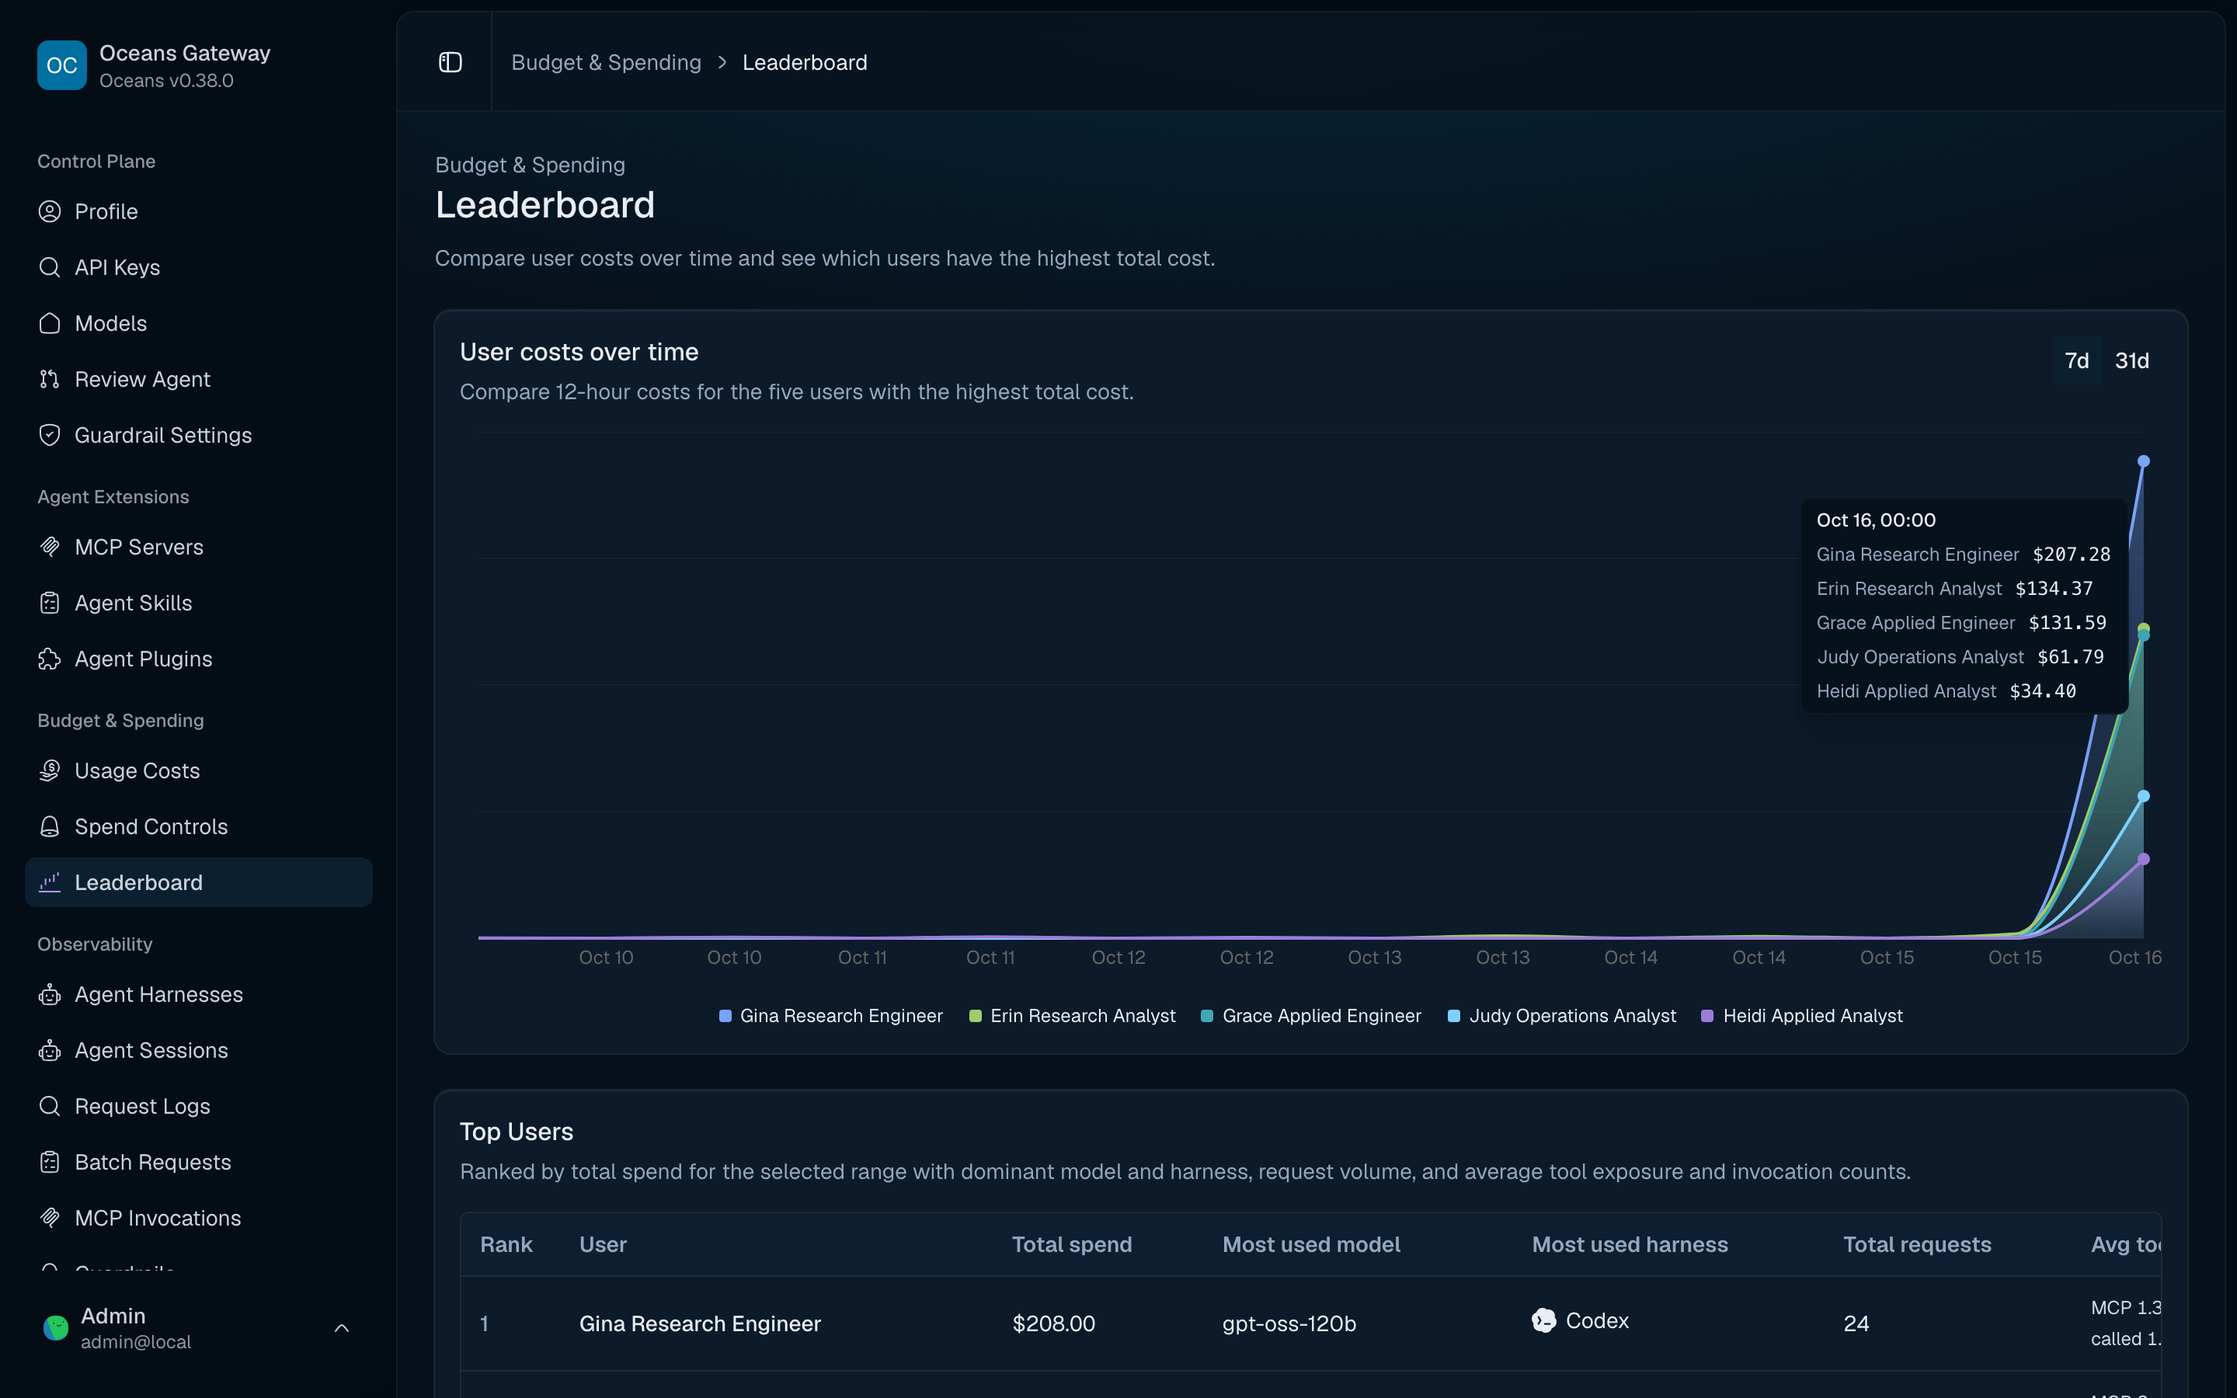
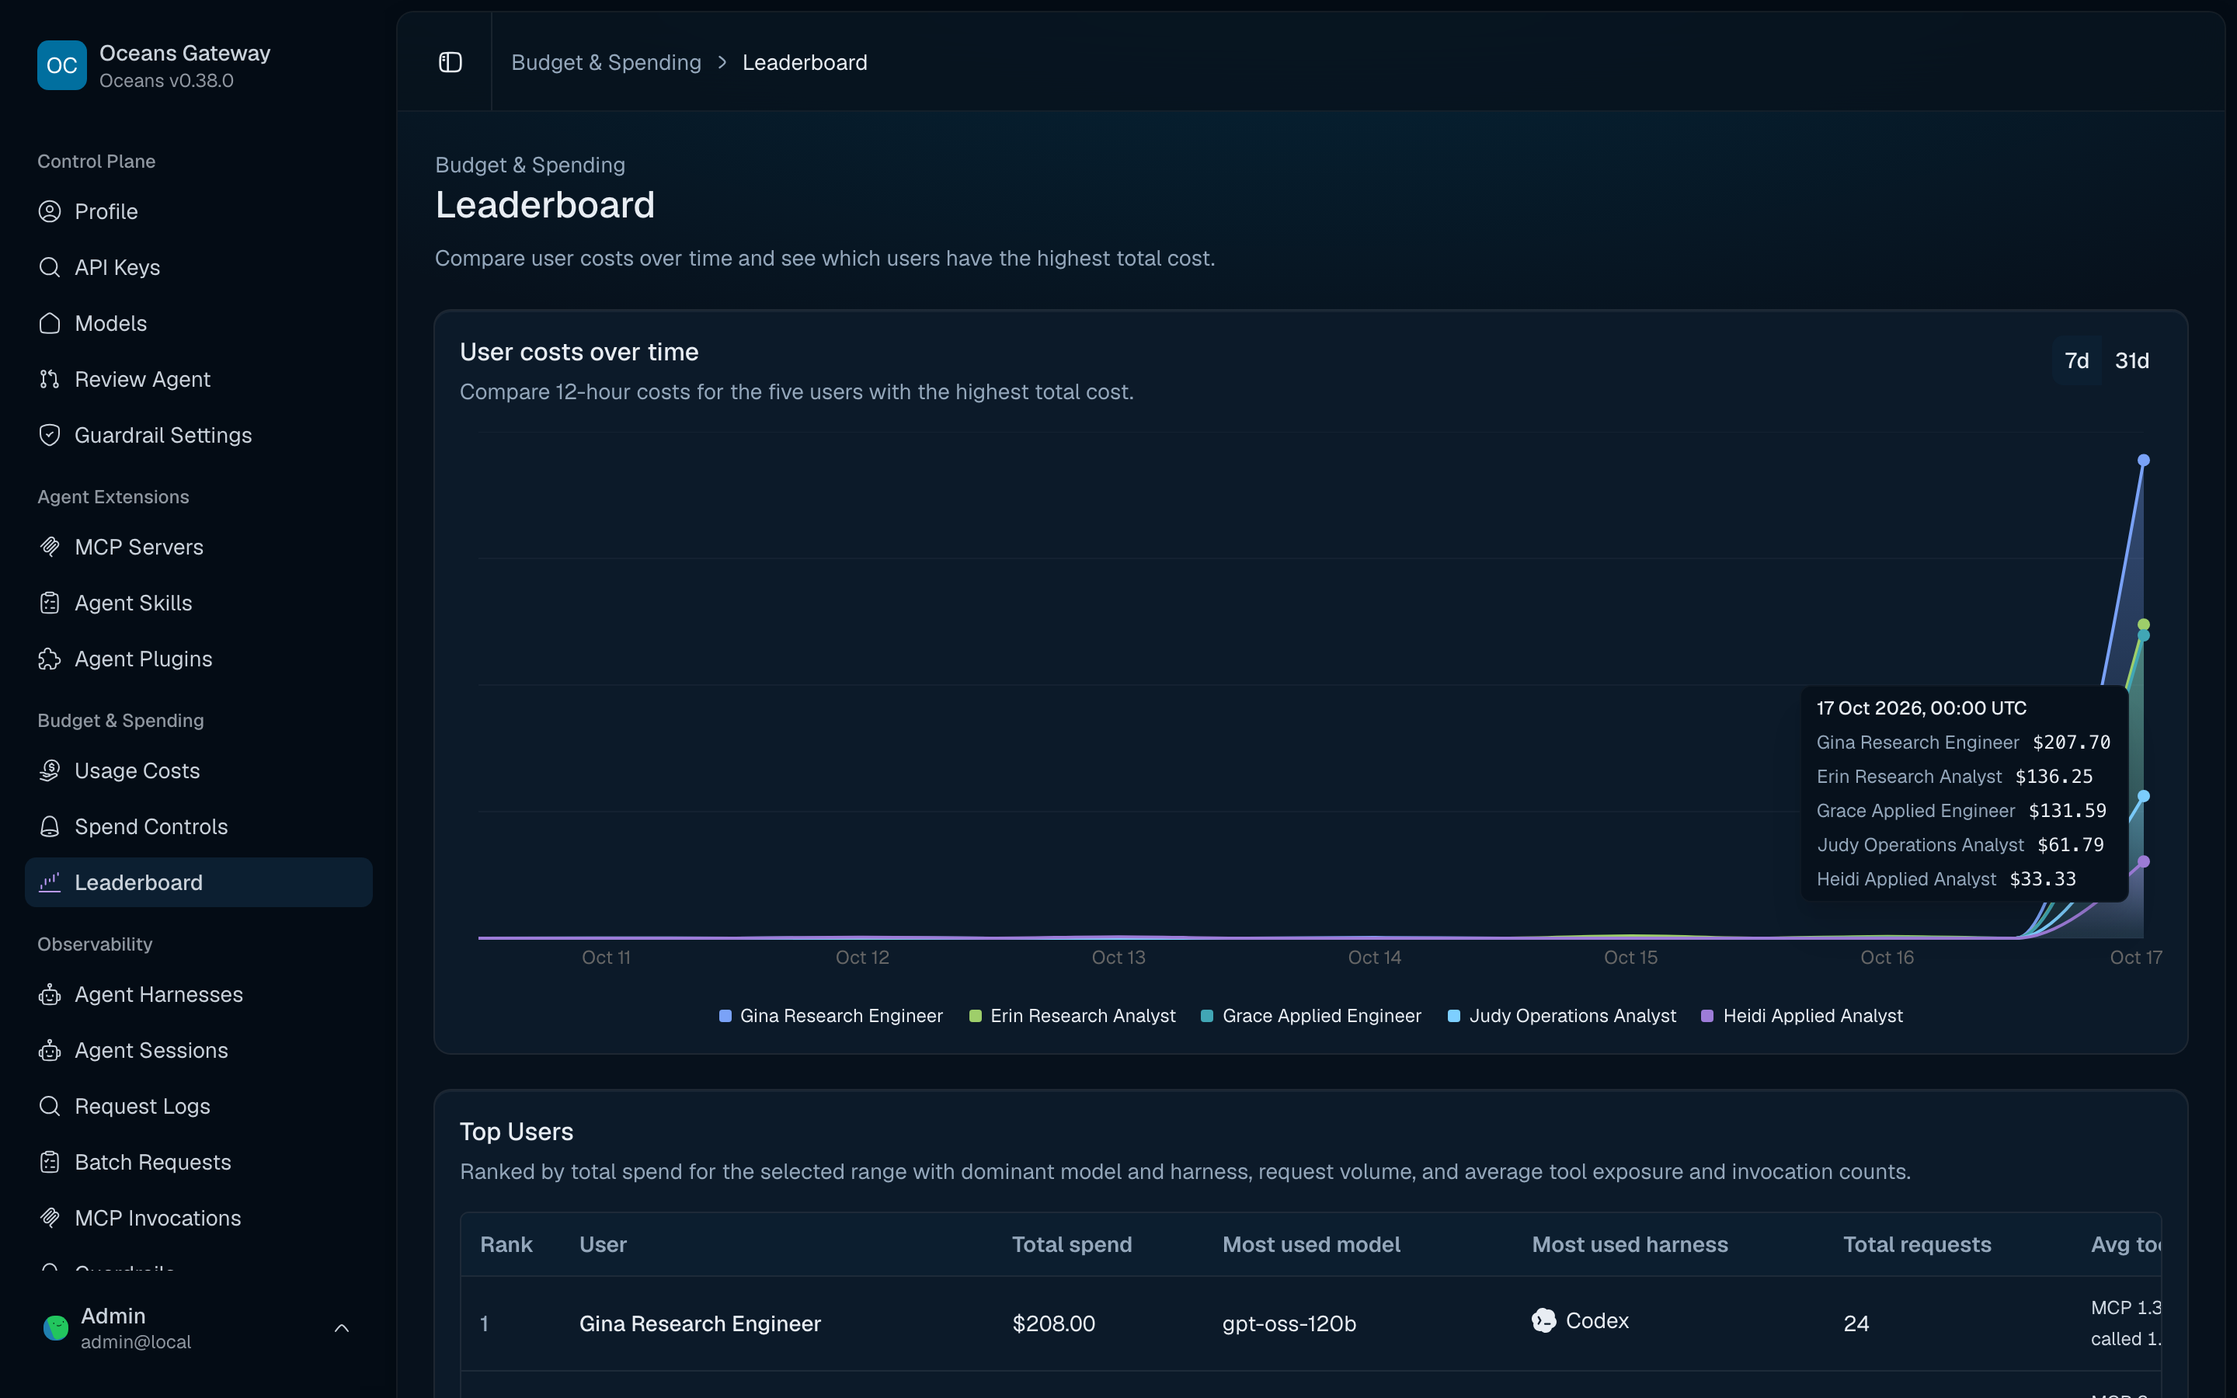
fix(admin-ui): tick chart axes once per UTC day and label tooltips in UTC
The leaderboard and agent harness charts plot 12-hour buckets, so the
day-only axis labels repeated (Oct 10, Oct 10, Oct 11...). Tick only the
midnight bucket of each UTC day instead.

Their tooltips read "Oct 16, 00:00" (or "Oct 16, 12 AM") with no zone.
Format them as `16 Oct 2026, 00:00 UTC` per DESIGN.md's numbers-and-time
rule, through a new shared formatUtcTimestamp built from fixed UTC parts
so server and browser output match during hydration.

Refresh the leaderboard screenshot and map the shared axis helper to the
leaderboard and agent-harnesses proofs.

Changed region(s): [[0.8125, 0.3733, 0.9688, 0.6844]]

diff --git a/crates/admin-ui/web/src/routes/observability/agent-harnesses.tsx b/crates/admin-ui/web/src/routes/observability/agent-harnesses.tsx
@@ -26,11 +26,14 @@ import {
 } from '@/components/ui/table'
 import { ToggleGroup, ToggleGroupItem } from '@/components/ui/toggle-group'
 import { chartAnimation } from '@/lib/chart-motion'
+import { formatUtcTimestamp } from '@/lib/format'
 import {
   getObservabilityHarnessUsage,
   refreshObservabilityHarnessUsage,
 } from '@/server/admin-data.functions'
 import type { HarnessUsageLeaderView, HarnessUsageRange, HarnessUsageView } from '@/types/api'
+
+import { formatBucketDay, utcDayTicks } from './-bucket-axis'
 
 export const Route = createFileRoute('/observability/agent-harnesses')({
   loader: () => getObservabilityHarnessUsage({ data: { range: '7d' } }),
@@ -89,6 +92,7 @@ export function AgentHarnessesPage() {
 
     return row
   })
+  const dayTicks = utcDayTicks(chartData.map((row) => String(row.bucket_start)))
 
   function refreshRange(nextRange: HarnessUsageRange) {
     setIsRefreshing(true)
@@ -171,17 +175,18 @@ export function AgentHarnessesPage() {
                 <CartesianGrid vertical={false} />
                 <XAxis
                   dataKey="bucket_start"
+                  ticks={dayTicks}
                   tickLine={false}
                   axisLine={false}
                   minTickGap={24}
-                  tickFormatter={(value) => formatAxisTick(value)}
+                  tickFormatter={formatBucketDay}
                 />
                 <ChartTooltip
                   cursor={false}
                   content={
                     <ChartTooltipContent
                       labelFormatter={(_, payload) =>
-                        formatTooltipLabel(String(payload?.[0]?.payload?.bucket_start ?? ''))
+                        formatUtcTimestamp(String(payload?.[0]?.payload?.bucket_start ?? ''))
                       }
                       formatter={(value, name) => (
                         <>
@@ -377,31 +382,6 @@ function HarnessChartSkeleton() {
 
 function HarnessTableSkeleton() {
   return <Skeleton data-testid="harness-table-skeleton" className="h-48 w-full" />
-}
-
-function formatAxisTick(value: string) {
-  const date = new Date(value)
-  if (Number.isNaN(date.getTime())) {
-    return value
-  }
-  return new Intl.DateTimeFormat('en-US', {
-    month: 'short',
-    day: 'numeric',
-    timeZone: 'UTC',
-  }).format(date)
-}
-
-function formatTooltipLabel(value: string) {
-  const date = new Date(value)
-  if (Number.isNaN(date.getTime())) {
-    return value
-  }
-  return new Intl.DateTimeFormat('en-US', {
-    month: 'short',
-    day: 'numeric',
-    hour: 'numeric',
-    timeZone: 'UTC',
-  }).format(date)
 }
 
 function getErrorMessage(error: unknown) {

diff --git a/crates/admin-ui/web/src/test/routes/leaderboard-route.test.tsx b/crates/admin-ui/web/src/test/routes/leaderboard-route.test.tsx
@@ -1,5 +1,5 @@
 import { cleanup, fireEvent, render, waitFor, within } from '@testing-library/react'
-import type { ReactNode } from 'react'
+import { cloneElement, type ReactElement, type ReactNode } from 'react'
 import { afterEach, beforeEach, describe, expect, it, vi } from 'vitest'
 
 const refreshObservabilityLeaderboardMock = vi.fn()
@@ -17,8 +17,32 @@ vi.mock('recharts', () => ({
   AreaChart: ({ children }: { children: ReactNode }) => <svg>{children}</svg>,
   Area: () => <path />,
   CartesianGrid: () => <g />,
-  XAxis: () => <g />,
-  Tooltip: () => null,
+  XAxis: ({
+    ticks,
+    tickFormatter,
+  }: {
+    ticks?: string[]
+    tickFormatter: (value: string) => string
+  }) => (
+    <g data-testid="x-axis">
+      {ticks?.map((tick) => (
+        <text key={tick}>{tickFormatter(tick)}</text>
+      ))}
+    </g>
+  ),
+  // Render the tooltip as if the noon bucket on 1 Mar were hovered.
+  Tooltip: ({ content }: { content: ReactElement }) =>
+    cloneElement(content as ReactElement<Record<string, unknown>>, {
+      active: true,
+      payload: [
+        {
+          dataKey: 'user_1',
+          name: 'user_1',
+          value: 3.5,
+          payload: { bucket_start: '2026-03-01T12:00:00Z' },
+        },
+      ],
+    }),
   Legend: () => null,
 }))
 
@@ -193,5 +217,36 @@ describe('ObservabilityLeaderboardPage', () => {
       expect(scope.getByTestId('leaderboard-chart-skeleton')).toBeInTheDocument()
       expect(scope.getByTestId('leaderboard-table-skeleton')).toBeInTheDocument()
     })
+  })
+
+  it('labels each UTC day once on the axis and names the zone in the tooltip', async () => {
+    routeMock.useLoaderData.mockReturnValue({
+      data: {
+        ...leaderboardData,
+        series: [
+          '2026-03-01T12:00:00Z',
+          '2026-03-02T00:00:00Z',
+          '2026-03-02T12:00:00Z',
+          '2026-03-03T00:00:00Z',
+        ].map((bucket_start) => ({
+          bucket_start,
+          values: [{ user_id: 'user_1', spend_usd_10000: 35000 }],
+        })),
+      },
+    })
+
+    const { ObservabilityLeaderboardPage } = await import('@/routes/observability/leaderboard')
+
+    const view = render(<ObservabilityLeaderboardPage />)
+    const scope = within(view.container)
+
+    // 12-hour buckets: only the midnight buckets get a tick, so no day repeats.
+    expect(
+      within(scope.getByTestId('x-axis'))
+        .getAllByText(/./)
+        .map((tick) => tick.textContent),
+    ).toEqual(['Mar 2', 'Mar 3'])
+    expect(scope.getByText('1 Mar 2026, 12:00 UTC')).toBeInTheDocument()
+    expect(scope.getByText('$3.50')).toBeInTheDocument()
   })
 })

diff --git a/crates/admin-ui/web/src/test/routes/agent-harnesses-route.test.tsx b/crates/admin-ui/web/src/test/routes/agent-harnesses-route.test.tsx
@@ -1,5 +1,5 @@
 import { cleanup, fireEvent, render, waitFor, within } from '@testing-library/react'
-import type { ReactNode } from 'react'
+import { cloneElement, type ReactElement, type ReactNode } from 'react'
 import { afterEach, beforeEach, describe, expect, it, vi } from 'vitest'
 
 const refreshObservabilityHarnessUsageMock = vi.fn()
@@ -17,8 +17,32 @@ vi.mock('recharts', () => ({
   AreaChart: ({ children }: { children: ReactNode }) => <svg>{children}</svg>,
   Area: () => <path />,
   CartesianGrid: () => <g />,
-  XAxis: () => <g />,
-  Tooltip: () => null,
+  XAxis: ({
+    ticks,
+    tickFormatter,
+  }: {
+    ticks?: string[]
+    tickFormatter: (value: string) => string
+  }) => (
+    <g data-testid="x-axis">
+      {ticks?.map((tick) => (
+        <text key={tick}>{tickFormatter(tick)}</text>
+      ))}
+    </g>
+  ),
+  // Render the tooltip as if the noon bucket on 1 Mar were hovered.
+  Tooltip: ({ content }: { content: ReactElement }) =>
+    cloneElement(content as ReactElement<Record<string, unknown>>, {
+      active: true,
+      payload: [
+        {
+          dataKey: 'harness_1',
+          name: 'harness_1',
+          value: 4,
+          payload: { bucket_start: '2026-03-01T12:00:00Z' },
+        },
+      ],
+    }),
   Legend: () => null,
 }))
 
@@ -200,5 +224,36 @@ describe('AgentHarnessesPage', () => {
       expect(scope.getByTestId('harness-chart-skeleton')).toBeInTheDocument()
       expect(scope.getByTestId('harness-table-skeleton')).toBeInTheDocument()
     })
+  })
+
+  it('labels each UTC day once on the axis and names the zone in the tooltip', async () => {
+    routeMock.useLoaderData.mockReturnValue({
+      data: {
+        ...harnessUsageData,
+        series: [
+          '2026-03-01T12:00:00Z',
+          '2026-03-02T00:00:00Z',
+          '2026-03-02T12:00:00Z',
+          '2026-03-03T00:00:00Z',
+        ].map((bucket_start) => ({
+          bucket_start,
+          values: [{ agent_harness_key: 'mastra', request_count: 4 }],
+        })),
+      },
+    })
+
+    const { AgentHarnessesPage } = await import('@/routes/observability/agent-harnesses')
+
+    const view = render(<AgentHarnessesPage />)
+    const scope = within(view.container)
+
+    // 12-hour buckets: only the midnight buckets get a tick, so no day repeats.
+    expect(
+      within(scope.getByTestId('x-axis'))
+        .getAllByText(/./)
+        .map((tick) => tick.textContent),
+    ).toEqual(['Mar 2', 'Mar 3'])
+    expect(scope.getByText('1 Mar 2026, 12:00 UTC')).toBeInTheDocument()
+    expect(scope.getByText('4 requests')).toBeInTheDocument()
   })
 })

diff --git a/crates/admin-ui/web/src/routes/observability/leaderboard.tsx b/crates/admin-ui/web/src/routes/observability/leaderboard.tsx
@@ -26,11 +26,14 @@ import {
 } from '@/components/ui/table'
 import { ToggleGroup, ToggleGroupItem } from '@/components/ui/toggle-group'
 import { chartAnimation } from '@/lib/chart-motion'
+import { formatUtcTimestamp } from '@/lib/format'
 import {
   getObservabilityLeaderboard,
   refreshObservabilityLeaderboard,
 } from '@/server/admin-data.functions'
 import type { LeaderboardRange, LeaderboardLeaderView, LeaderboardView } from '@/types/api'
+
+import { formatBucketDay, utcDayTicks } from './-bucket-axis'
 
 export const Route = createFileRoute('/observability/leaderboard')({
   loader: () => getObservabilityLeaderboard({ data: { range: '7d' } }),
@@ -91,6 +94,7 @@ export function ObservabilityLeaderboardPage() {
 
     return row
   })
+  const dayTicks = utcDayTicks(chartData.map((row) => String(row.bucket_start)))
 
   function refreshRange(nextRange: LeaderboardRange) {
     setIsRefreshing(true)
@@ -173,17 +177,18 @@ export function ObservabilityLeaderboardPage() {
                 <CartesianGrid vertical={false} />
                 <XAxis
                   dataKey="bucket_start"
+                  ticks={dayTicks}
                   tickLine={false}
                   axisLine={false}
                   minTickGap={24}
-                  tickFormatter={(value) => formatAxisTick(value)}
+                  tickFormatter={formatBucketDay}
                 />
                 <ChartTooltip
                   cursor={false}
                   content={
                     <ChartTooltipContent
                       labelFormatter={(_, payload) =>
-                        formatTooltipLabel(String(payload?.[0]?.payload?.bucket_start ?? ''))
+                        formatUtcTimestamp(String(payload?.[0]?.payload?.bucket_start ?? ''))
                       }
                       formatter={(value, name) => (
                         <>
@@ -426,33 +431,6 @@ function formatAverageCount(value: number | null | undefined) {
   }
 
   return Number.isInteger(value) ? String(value) : value.toFixed(1)
-}
-
-function formatAxisTick(value: string) {
-  if (!value) {
-    return ''
-  }
-
-  return new Date(value).toLocaleDateString('en-US', {
-    month: 'short',
-    day: 'numeric',
-    timeZone: 'UTC',
-  })
-}
-
-function formatTooltipLabel(value: string) {
-  if (!value) {
-    return 'UTC'
-  }
-
-  return new Date(value).toLocaleString('en-US', {
-    month: 'short',
-    day: 'numeric',
-    hour: 'numeric',
-    minute: '2-digit',
-    hour12: false,
-    timeZone: 'UTC',
-  })
 }
 
 function toLeaderboardRange(value: string): LeaderboardRange {

diff --git a/crates/admin-ui/web/src/lib/format.ts b/crates/admin-ui/web/src/lib/format.ts
@@ -32,3 +32,19 @@ const EXPIRY_FORMATTER = new Intl.DateTimeFormat('en-US', {
 export function formatIncreaseLastDay(expiresAt: Date | string) {
   return EXPIRY_FORMATTER.format(new Date(new Date(expiresAt).getTime() - 1))
 }
+
+const MONTHS = ['Jan', 'Feb', 'Mar', 'Apr', 'May', 'Jun', 'Jul', 'Aug', 'Sep', 'Oct', 'Nov', 'Dec']
+
+/**
+ * Formats an instant as `16 Oct 2026, 02:04 UTC`, the DESIGN.md timestamp form. Fixed UTC parts
+ * keep server and browser output identical during hydration, whatever their ICU data.
+ */
+export function formatUtcTimestamp(value: Date | string) {
+  const date = new Date(value)
+  if (Number.isNaN(date.getTime())) {
+    return '—'
+  }
+  const hours = String(date.getUTCHours()).padStart(2, '0')
+  const minutes = String(date.getUTCMinutes()).padStart(2, '0')
+  return `${date.getUTCDate()} ${MONTHS[date.getUTCMonth()]} ${date.getUTCFullYear()}, ${hours}:${minutes} UTC`
+}

diff --git a/crates/admin-ui/web/src/routes/observability/-bucket-axis.ts b/crates/admin-ui/web/src/routes/observability/-bucket-axis.ts
@@ -1,0 +1,21 @@
+/**
+ * X-axis helpers shared by the Leaderboard and Agent harnesses charts, which plot 12-hour buckets
+ * aligned to UTC midnight and noon.
+ */
+
+const AXIS_DAY_FORMATTER = new Intl.DateTimeFormat('en-US', {
+  month: 'short',
+  day: 'numeric',
+  timeZone: 'UTC',
+})
+
+/** Buckets that start a UTC day, so each day gets one tick instead of one per bucket. */
+export function utcDayTicks(bucketStarts: string[]) {
+  return bucketStarts.filter((value) => new Date(value).getUTCHours() === 0)
+}
+
+/** Day tick label, e.g. `Oct 16`, matching the other daily charts. */
+export function formatBucketDay(value: string) {
+  const date = new Date(value)
+  return Number.isNaN(date.getTime()) ? '' : AXIS_DAY_FORMATTER.format(date)
+}

diff --git a/.agents/skills/verify-oceans-admin/features/agent-harnesses.md b/.agents/skills/verify-oceans-admin/features/agent-harnesses.md
@@ -34,6 +34,7 @@ Preconditions: launch a dedicated verification stack, require `doctor` to pass, 
 - The route always loads 7 days first; do not infer a 31-day refresh from the selected radio alone. Wait for row values from the 31-day API response.
 - `harness-usage-mobile-list` is present but hidden at the driver's desktop viewport. Use `harness-usage-table` for deterministic API comparison and verify responsive behavior in route tests.
 - The chart plots at most 5 harnesses (`chart_harnesses`) while the ranking lists up to 30 `leaders`. Chart area count need not equal row count.
+- The x-axis ticks once per UTC day, at the midnight bucket; with 31 days it shows an evenly spaced subset. The tooltip names the hovered bucket's start as `16 Oct 2026, 12:00 UTC`.
 - Token sums are ranking-only. The chart remains request-count-only and its values must be compared with `series[].values[].request_count` semantics.
 - Oh My Pi deliberately does not reuse the unrelated Pi icon. Its `omp.sh` mark must use a solid white fill, not the source gradient.
 - This is a seeded read-only proof. It does not require a paid live LLM request.

diff --git a/.agents/skills/verify-oceans-admin/features/leaderboard.md b/.agents/skills/verify-oceans-admin/features/leaderboard.md
@@ -31,4 +31,5 @@ Preconditions: launch a dedicated verification stack, require `doctor` to pass, 
 
 - The route always loads 7 days first; do not infer a 31-day refresh from the selected radio alone. Wait for row values from the 31-day API response.
 - `leaderboard-mobile-list` is in the DOM but hidden (`md:hidden`) at 1440px. Use `leaderboard-table` for API comparison. The responsive step checks visibility at 600px, not DOM presence.
+- The x-axis ticks once per UTC day, at the midnight bucket; with 31 days it shows an evenly spaced subset. The tooltip names the hovered bucket's start as `16 Oct 2026, 12:00 UTC`.
 - The chart is spend-only. Most-used model and harness values belong to ranking rows and must not be inferred from chart labels.
